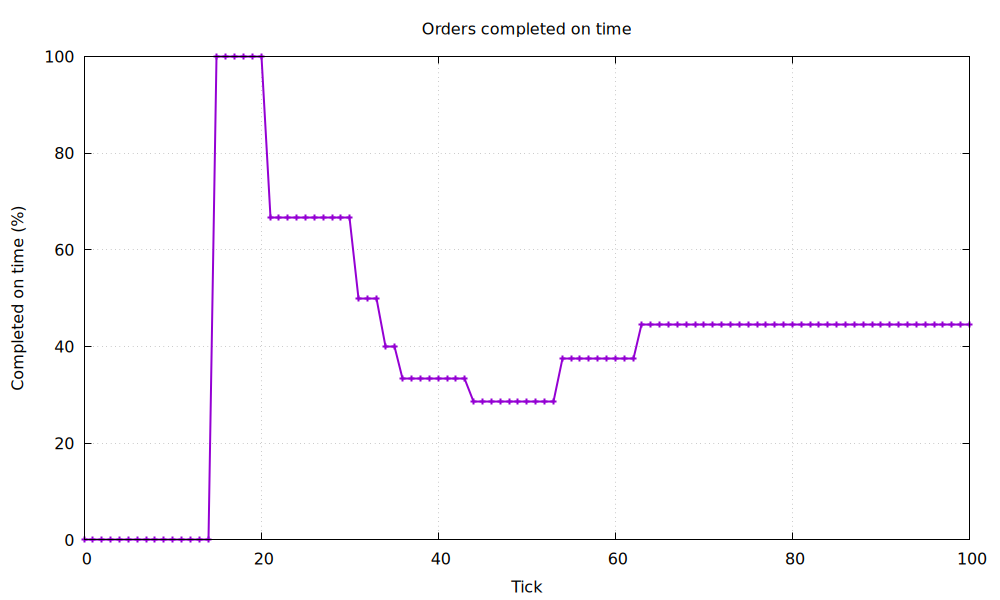
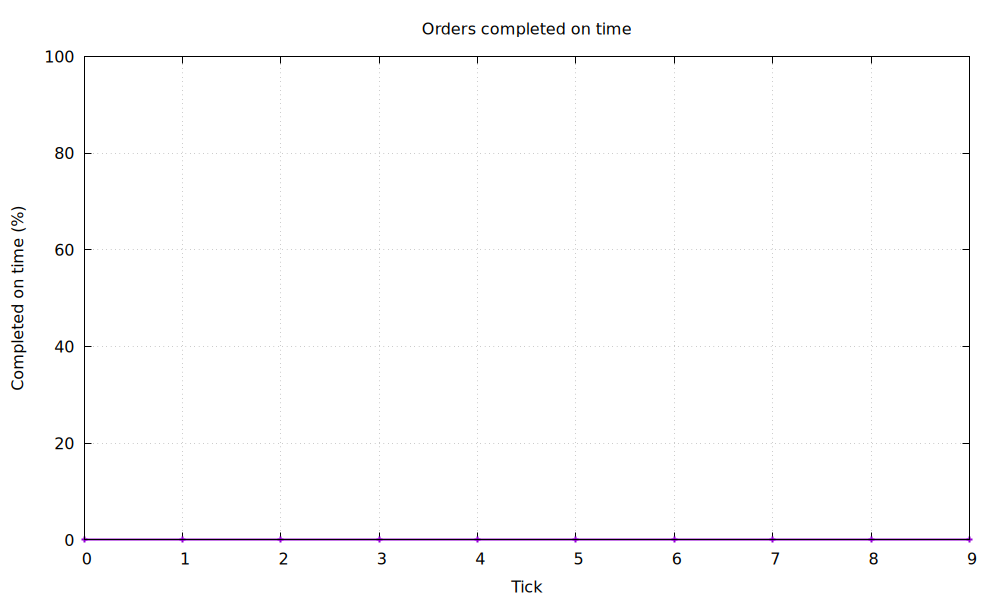
Restaurant domain model 4.1 (fixed Scheduler)

diff --git a/lab_1/include/Scheduler.hpp b/lab_1/include/Scheduler.hpp
@@ -4,10 +4,62 @@
 #include <deque>
 #include <algorithm>
 #include <vector>
+#include <stdexcept>
 
 enum class SchedulingPolicy {
     FIFO,
     EDF
+};
+
+
+class ScheduleStrategy {
+public:
+    virtual ~ScheduleStrategy() = default;
+    virtual std::vector<std::size_t> getOrderIndeces(const std::deque<Order>& orders) const = 0;
+};
+
+
+class FIFOStrategy : public ScheduleStrategy {
+public:
+    std::vector<std::size_t> getOrderIndeces(const std::deque<Order>& orders) const override {
+        std::vector<std::size_t> indices;
+        for (std::size_t i = 0; i < orders.size(); ++i) {
+            indices.push_back(i);
+        }
+        return indices;
+    }
+};
+
+
+class EDFStrategy : public ScheduleStrategy {
+public:
+    std::vector<std::size_t> getOrderIndeces(const std::deque<Order>& orders) const override {
+        std::vector<std::size_t> indices;
+        for (std::size_t i = 0; i < orders.size(); ++i) {
+            indices.push_back(i);
+        }
+        std::stable_sort(indices.begin(), indices.end(), [&orders](std::size_t a, std::size_t b) {
+        return orders[a].getDeadline() < orders[b].getDeadline();});
+        return indices;
+    }
+};
+
+
+class ScheduleStrategyFactory {
+public:
+    static const ScheduleStrategy& create(SchedulingPolicy policy) {
+        static const FIFOStrategy fifo;
+        static const EDFStrategy edf;
+
+        switch (policy) {
+            case SchedulingPolicy::FIFO:
+                return fifo;
+
+            case SchedulingPolicy::EDF:
+                return edf;
+        }
+        throw std::invalid_argument("Неизвестная политика");
+    }
 };
 
 
@@ -17,21 +69,18 @@ class Scheduler {
 
     public:
     void setPolicy(SchedulingPolicy new_policy) {
+        ScheduleStrategyFactory::create(new_policy);
         policy = new_policy;
     }
 
-    std::vector<std::size_t> getOrderIndeces(const std::deque<Order>& orders) const {
-        std::vector<std::size_t> indeces;
-        for (std::size_t i = 0; i< orders.size(); i++) {
-            indeces.push_back(i);
-        }
-        if (policy == SchedulingPolicy::EDF) {
-            std::stable_sort(indeces.begin(), indeces.end(), [&orders](std::size_t a, std::size_t b) {
-                return orders[a].getDeadline() < orders[b].getDeadline();});
-        }
-        return indeces;
-    }
     SchedulingPolicy getPolicy() const {
         return policy;
     }
+
+    std::vector<std::size_t> getOrderIndeces(const std::deque<Order>& orders) const {
+        const ScheduleStrategy& strategy = ScheduleStrategyFactory::create(policy);
+        return strategy.getOrderIndeces(orders);
+    }
 };
+
+

diff --git a/lab_1/include/Dish.hpp b/lab_1/include/Dish.hpp
@@ -30,6 +30,7 @@ enum class DishStatus {
 };
 
 using Grams = std::int64_t;
+using Minutes = std::int64_t;
 
 class Recipe {
     private:
@@ -82,6 +83,7 @@ class Dish {
     DishStatus getStatus() const {
         return status;
     }
+    // без явного setStatus, переходы сами по себе
     void setStatus(DishStatus newStatus) {
         if (status == DishStatus::Waiting && newStatus == DishStatus::Cooking) {
             status = newStatus;

diff --git a/lab_1/include/Order.hpp b/lab_1/include/Order.hpp
@@ -63,12 +63,11 @@ class Order {
         }
         return OrderStatus::Waiting;
     }
-
+    //засунуть в приват и вызывать по другому публичными функциями
     void SetDishStatus(std::size_t index, DishStatus newstatus) {
         if (index >= dishes.size()) {
             throw std::out_of_range("Неверный индекс блюда");
         }
-
         dishes[index].setStatus(newstatus);
     }
 
